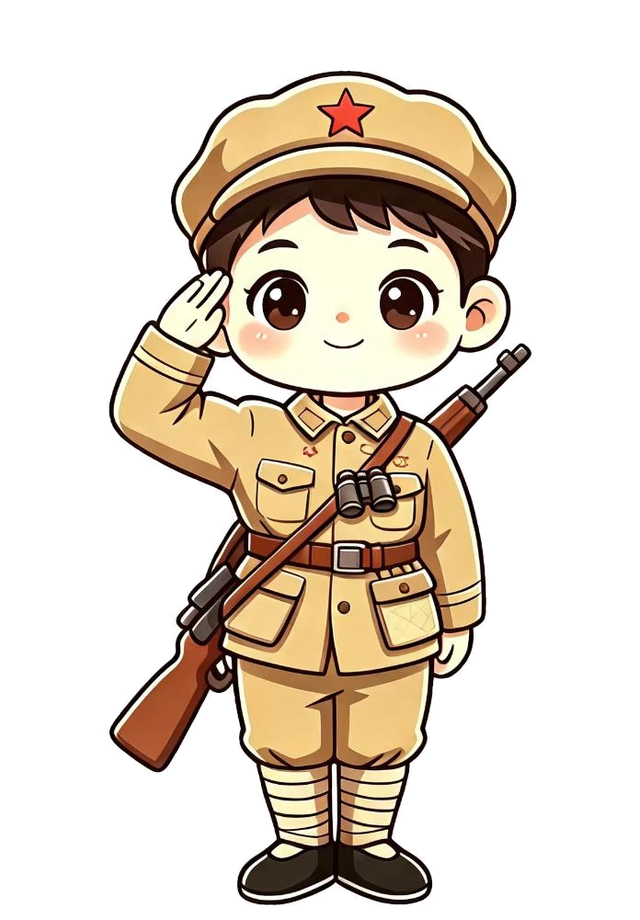
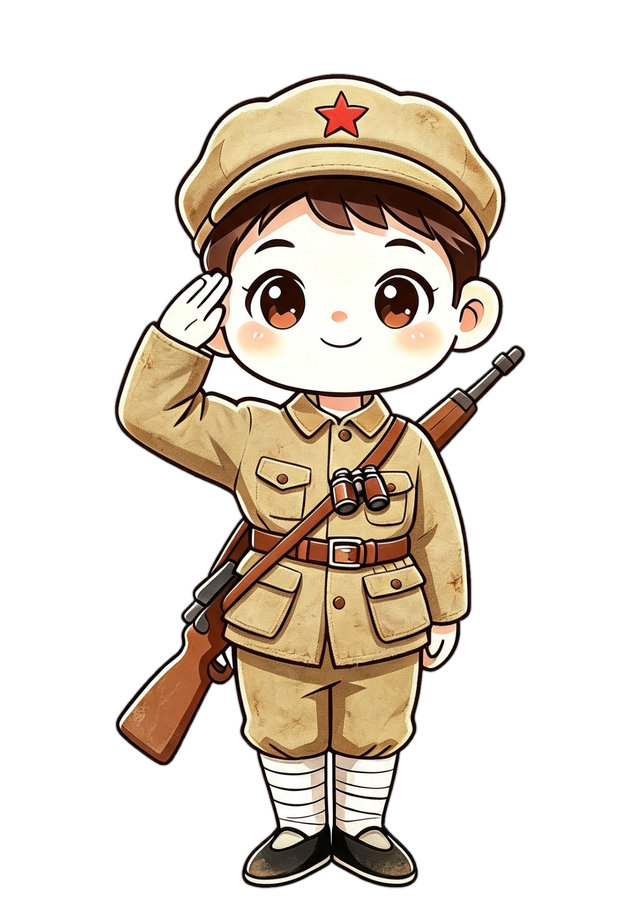
UI tweaks, auto-advance lesson, assets & SW bump
Adjust UI positions/styles (cherry 'thanks' bubble and toast size/placement); update skin image assets (skin_1..4). Add auto-advance behavior after 'intel_words' completion (app.js) and implement advanceLesson() in Store (store.js), exporting it for use. Tweak cherry interaction toast texts. Bump service worker cache version (sw.js) to v58 so new deployment takes effect.

Changed region(s): [[0.1562, 0.0609, 0.8438, 1.0], [0.5, 0.3348, 0.5625, 0.3957], [0.4688, 0.3043, 0.5, 0.3348]]

diff --git a/js/data/store.js b/js/data/store.js
@@ -259,7 +259,7 @@ window.Store = (function () {
     user.totalScore -= f.price
     user.cherryFullness = Math.min(100, (user.cherryFullness || 0) + f.full)
     save()
-    return { ok: true, kind: 'food', msg: '樱桃大口吃起来啦 🦴 谢谢主人！饱腹 +' + f.full + '%' }
+    return { ok: true, kind: 'food', msg: '樱桃大口吃起来啦 🦴 饱腹 +' + f.full + '%' }
   }
   // 板块二：军衔装束（皮肤）
   function buySkin(s) {
@@ -337,6 +337,22 @@ window.Store = (function () {
   function setCurrentUnit(n) { user.currentUnit = Math.max(1, Math.min(8, n | 0)); save() }
   function getCurrentLesson() { return user.currentLesson || '1' }
   function setCurrentLesson(l) { user.currentLesson = (typeof l === 'string' && l) ? l : '1'; save() }
+  // 识字连通关后自动把"当前课文"推进到 LESSON_ORDER 中的下一课（跨单元连续）；
+  // 已是最后一课（全部学完）或当前课异常时返回 null 不推进。
+  function advanceLesson() {
+    const W = window.WORDS
+    if (!W || !W.getLessonOrder) return null
+    const order = W.getLessonOrder()
+    if (!order || !order.length) return null
+    const cu = getCurrentUnit(), cl = String(getCurrentLesson())
+    const idx = order.findIndex(x => x.unit === cu && String(x.lesson) === cl)
+    if (idx < 0 || idx >= order.length - 1) return null
+    const next = order[idx + 1]
+    user.currentUnit = next.unit
+    user.currentLesson = String(next.lesson)
+    save()
+    return next
+  }
   function setActiveUnits(arr) { user.activeUnits = arr; save() }
 
   // ---- 家长导入生字（持久化在 user.importedWords，随进度门控参与出题） ----
@@ -416,7 +432,7 @@ window.Store = (function () {
     getFoods, getSkins, getEquips, getWeapons,
     buyItem, buyFood, buySkin, buyEquip, buyWeapon, toggleEquip,
     skinUnlocked, ownsSkin, setSkin, ownsEquip, isEquipOn, ownsWeapon,
-    checkAdminPassword, setAdminPassword, getActiveUnits, setActiveUnits, getCurrentUnit, setCurrentUnit, getCurrentLesson, setCurrentLesson,
+    checkAdminPassword, setAdminPassword, getActiveUnits, setActiveUnits, getCurrentUnit, setCurrentUnit, getCurrentLesson, setCurrentLesson, advanceLesson,
     getImportedWords, addImportedWord, clearImportedWords,
     getArticles, saveArticle, deleteArticle,
     addHistory, getReport, stageName,

diff --git a/js/app.js b/js/app.js
@@ -361,6 +361,11 @@
       const res = Store.recordPass(q.key)
       bonus = res.bonus; allDone = res.allDone; streakBonus = res.streakBonus || 0
       earned = res.bullets + bonus + streakBonus
+      // 识字连通关后自动推进到下一课（跨单元连续），家长后台仍可手动覆盖
+      if (q.key === 'intel_words') {
+        const nx = Store.advanceLesson()
+        if (nx) setTimeout(() => toast('📖 已自动进入 第' + nx.unit + '单元·第' + nx.lesson + '课《' + (nx.lessonName || '') + '》'), 1300)
+      }
     }
     Store.addHistory({ date: Store.todayStr(), type: q.key, total: q.total, correct: q.correctCount, passed, bullets: earned })
     if (passed && !q.review) {
@@ -767,10 +772,10 @@
           }
           const add = Store.clickCherry()
           if (add) {
-            toast('樱桃开心地吃起来啦 🦴 谢谢主人！子弹 +' + add)
+            toast('主人，记得找我玩哦！ 子弹 +' + add)
             setTimeout(() => renderHome(), 4800) // 动画结束后再刷新，更新子弹数
           } else {
-            toast('樱桃蹭了蹭你 🐾 谢谢主人~')
+            toast('樱桃蹭了蹭你 🐾')
             setTimeout(() => { const w = document.querySelector('.cherry-char'); if (w) w.classList.remove('eating') }, 4800)
           }
           break

diff --git a/css/style.css b/css/style.css
@@ -104,7 +104,7 @@ body {
 
 /* 吃东西时的“谢谢主人”气泡 + 飘心 */
 .cherry-thanks {
-  position: absolute; left: 50%; top: -4%;
+  position: absolute; left: 50%; top: -18%;
   transform: translateX(-50%);
   background: #fff7fb; color: #d6336c; font-weight: 700; font-size: 14px;
   padding: 4px 10px; border-radius: 14px; border: 2px solid #ffd6e7;
@@ -359,9 +359,9 @@ ruby rt { font-size: 11px; color: #999; }
 
 /* toast */
 .toast {
-  position: fixed; left: 50%; top: 40%; transform: translate(-50%, -50%) scale(0.8);
-  background: rgba(0,0,0,0.82); color: #fff; padding: 14px 22px; border-radius: 14px;
-  font-size: 18px; font-weight: bold; opacity: 0; transition: all .25s; z-index: 99; text-align: center;
+  position: fixed; left: 50%; top: 12%; transform: translate(-50%, -50%) scale(0.8);
+  max-width: min(90vw, 520px); background: rgba(0,0,0,0.82); color: #fff; padding: 14px 22px; border-radius: 14px;
+  font-size: 18px; font-weight: bold; opacity: 0; transition: all .25s; z-index: 99; text-align: center; line-height: 1.4;
 }
 .toast.show { opacity: 1; transform: translate(-50%, -50%) scale(1); }
 

diff --git a/sw.js b/sw.js
@@ -1,7 +1,7 @@
 // 邱少云小八路 Service Worker —— 让网站可被"安装"为全屏 PWA 应用
 // network-first：每次优先取网络最新内容（保证部署即生效），网络失败再用缓存兜底（离线可用）
 // 注意：fetch 用 {cache:'reload'} 绕过浏览器 HTTP 缓存，确保部署后立即生效，避免 PWA 一直显示旧页面
-const CACHE = 'qiaoqiao-v53'
+const CACHE = 'qiaoqiao-v58'
 
 self.addEventListener('install', function (e) {
   self.skipWaiting()
